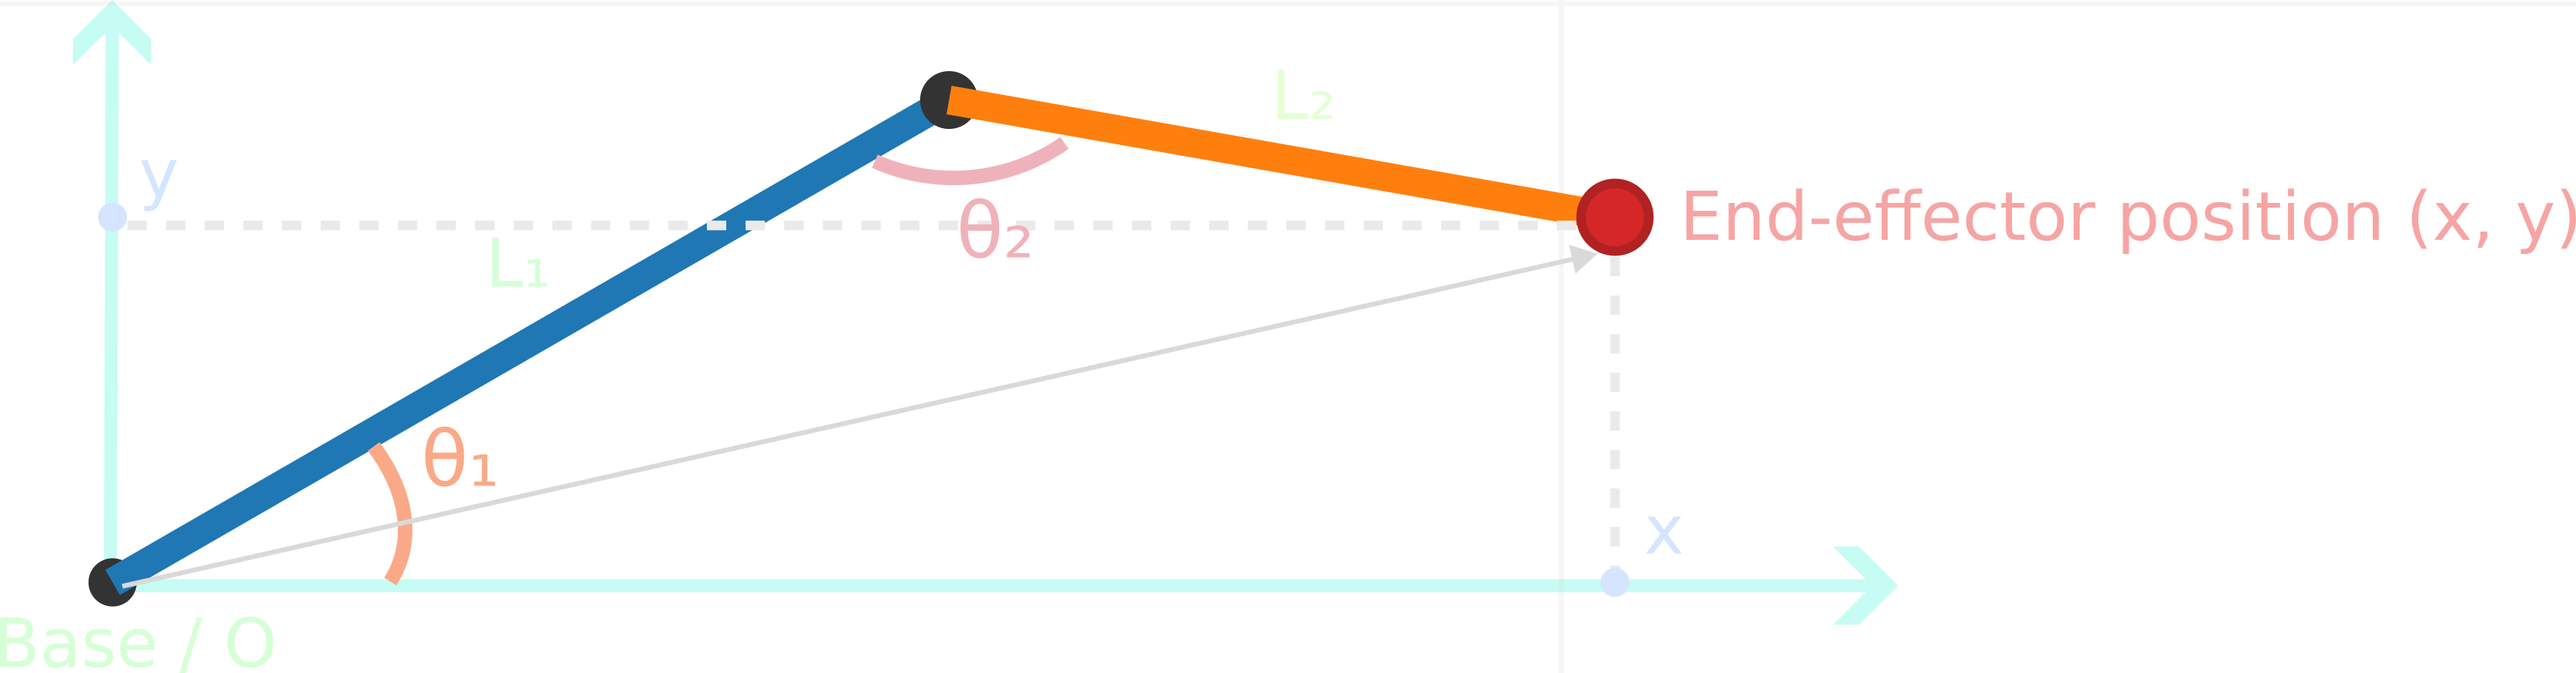
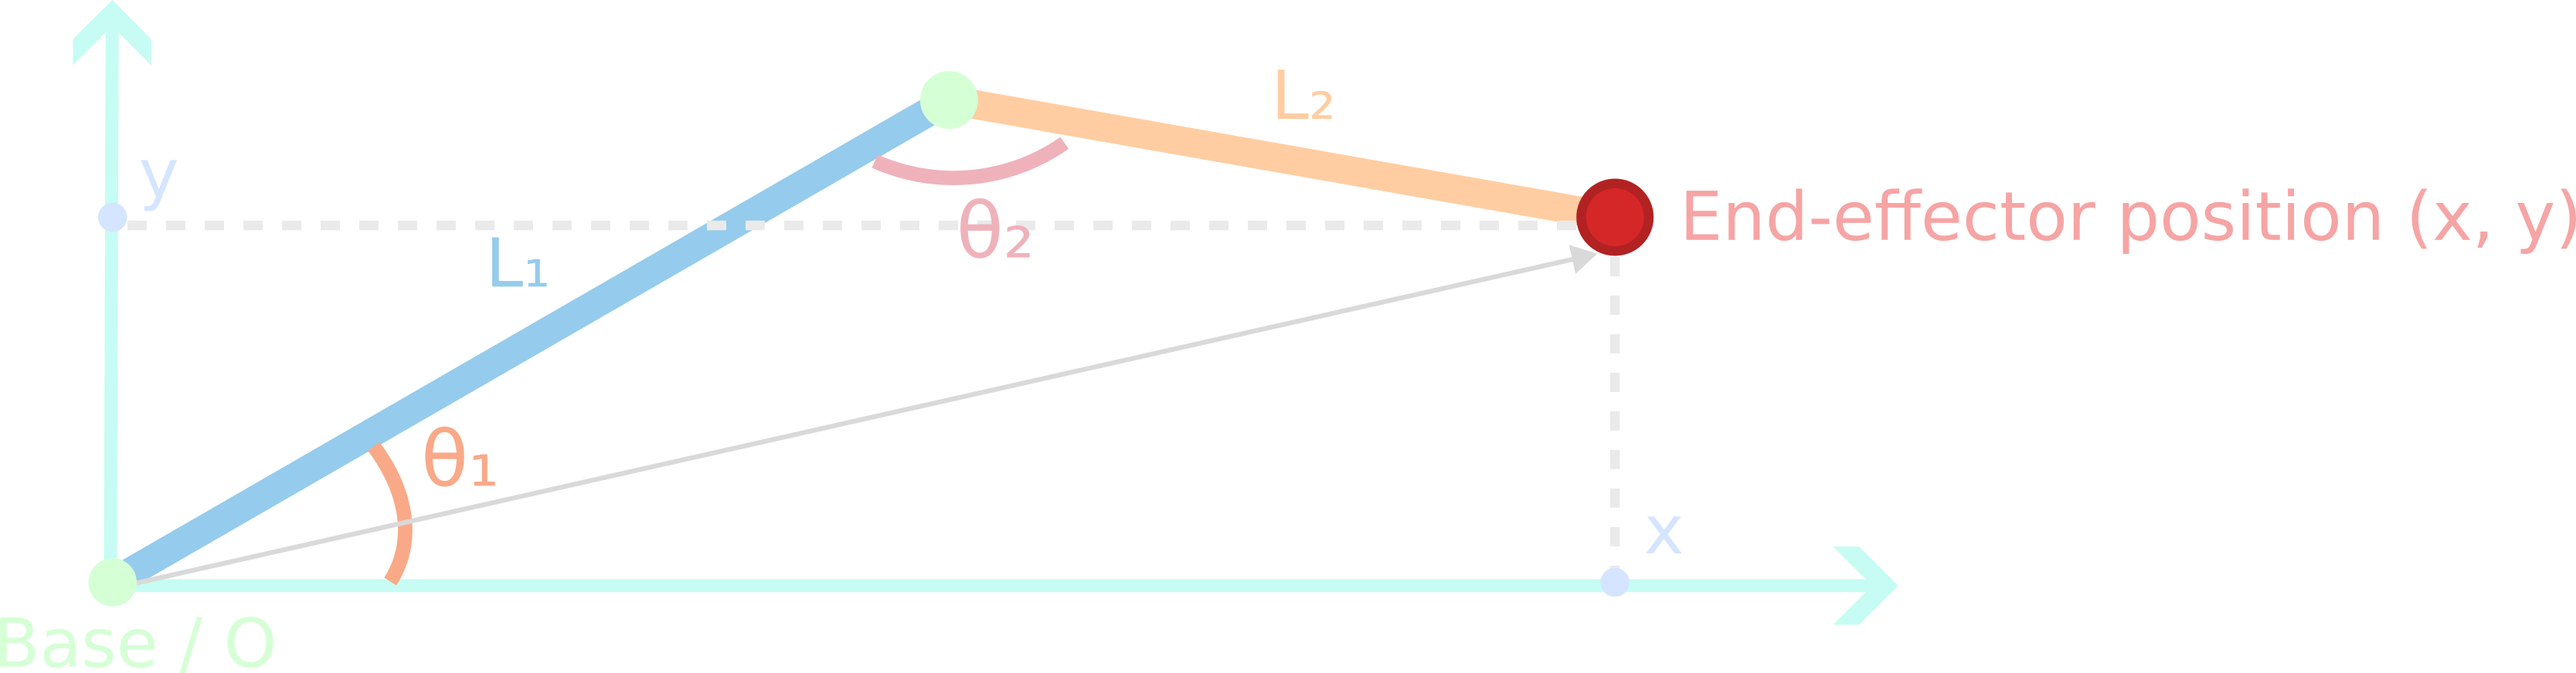
fixed image and added sphinx extensions

Changed region(s): [[0.0312, 0.0929, 0.6239, 0.8979], [0.4991, 0.1548, 0.5303, 0.1858]]

diff --git a/docs/source/conf.py b/docs/source/conf.py
@@ -7,11 +7,17 @@ copyright = f'{date.today().year}, {author}'
 release = 'v1.0'
 
 extensions = [
+    "myst_parser",
+    "sphinx.ext.autosummary",
+    "sphinxcontrib.mermaid",
+    "sphinx_autodoc_typehints",
+    "sphinx_copybutton",
     'sphinx.ext.autodoc',
     'sphinx.ext.napoleon',
     'sphinx.ext.intersphinx',
     'sphinx_design',
 ]
+
 
 intersphinx_mapping = {
     'python': ('https://docs.python.org/3', None),

diff --git a/docs/source/assignments/rwaIII.rst b/docs/source/assignments/rwaIII.rst
@@ -127,13 +127,13 @@ The first joint angle :math:`\theta_1` is measured between the x-axis and the fi
 .. figure:: /_static/2DPlanar-light.png
    :alt: Forward kinematics of a 2-DOF planar arm
    :align: center
-   :width: 70%
+   :width: 90%
    :class: only-light
 
 .. figure:: /_static/2DPlanar-dark.png
    :alt: Forward kinematics of a 2-DOF planar arm (dark theme)
    :align: center
-   :width: 70%
+   :width: 90%
    :class: only-dark
 
 
@@ -175,24 +175,6 @@ You will implement this filter as a **lambda function**, which:
 
 This demonstrates how to use **lambda expressions** for inline, real-time control operations.
 
-.. ----------------------------------------------------
-.. File Structure
-.. ----------------------------------------------------
-
-.. You must create the following files:
-
-.. .. code-block:: text
-
-..    robot_types.hpp / robot_types.cpp
-..    robot_kinematics.hpp
-..    robot_control.hpp / robot_control.cpp
-..    main.cpp
-..    CMakeLists.txt
-
-.. **Guidelines:**
-
-.. - **Templates** → defined entirely in ``.hpp``.
-.. - **Non-template functions** → declared in ``.hpp`` and implemented in ``.cpp``.
 
 ----------------------------------------------------
 Task 1 - Robot State POD Structs (6 pts)
